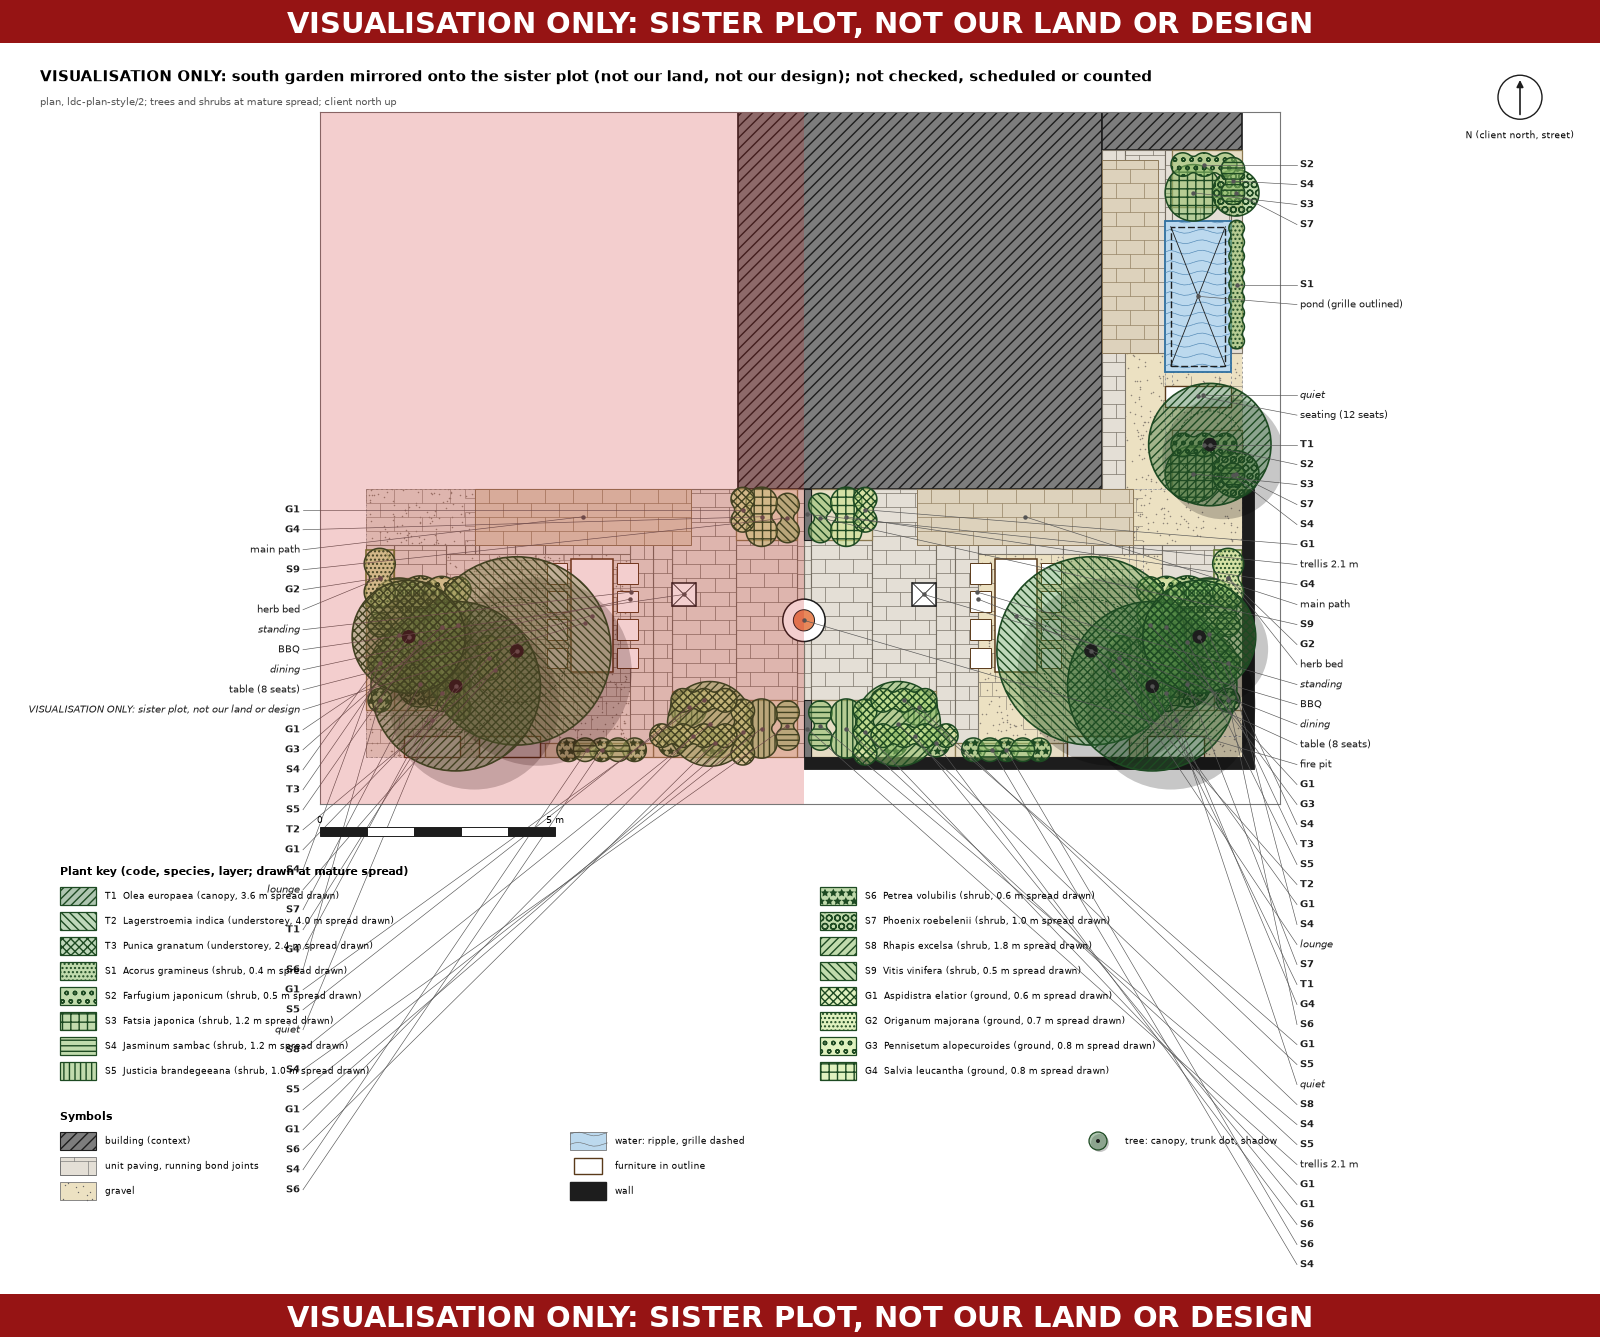
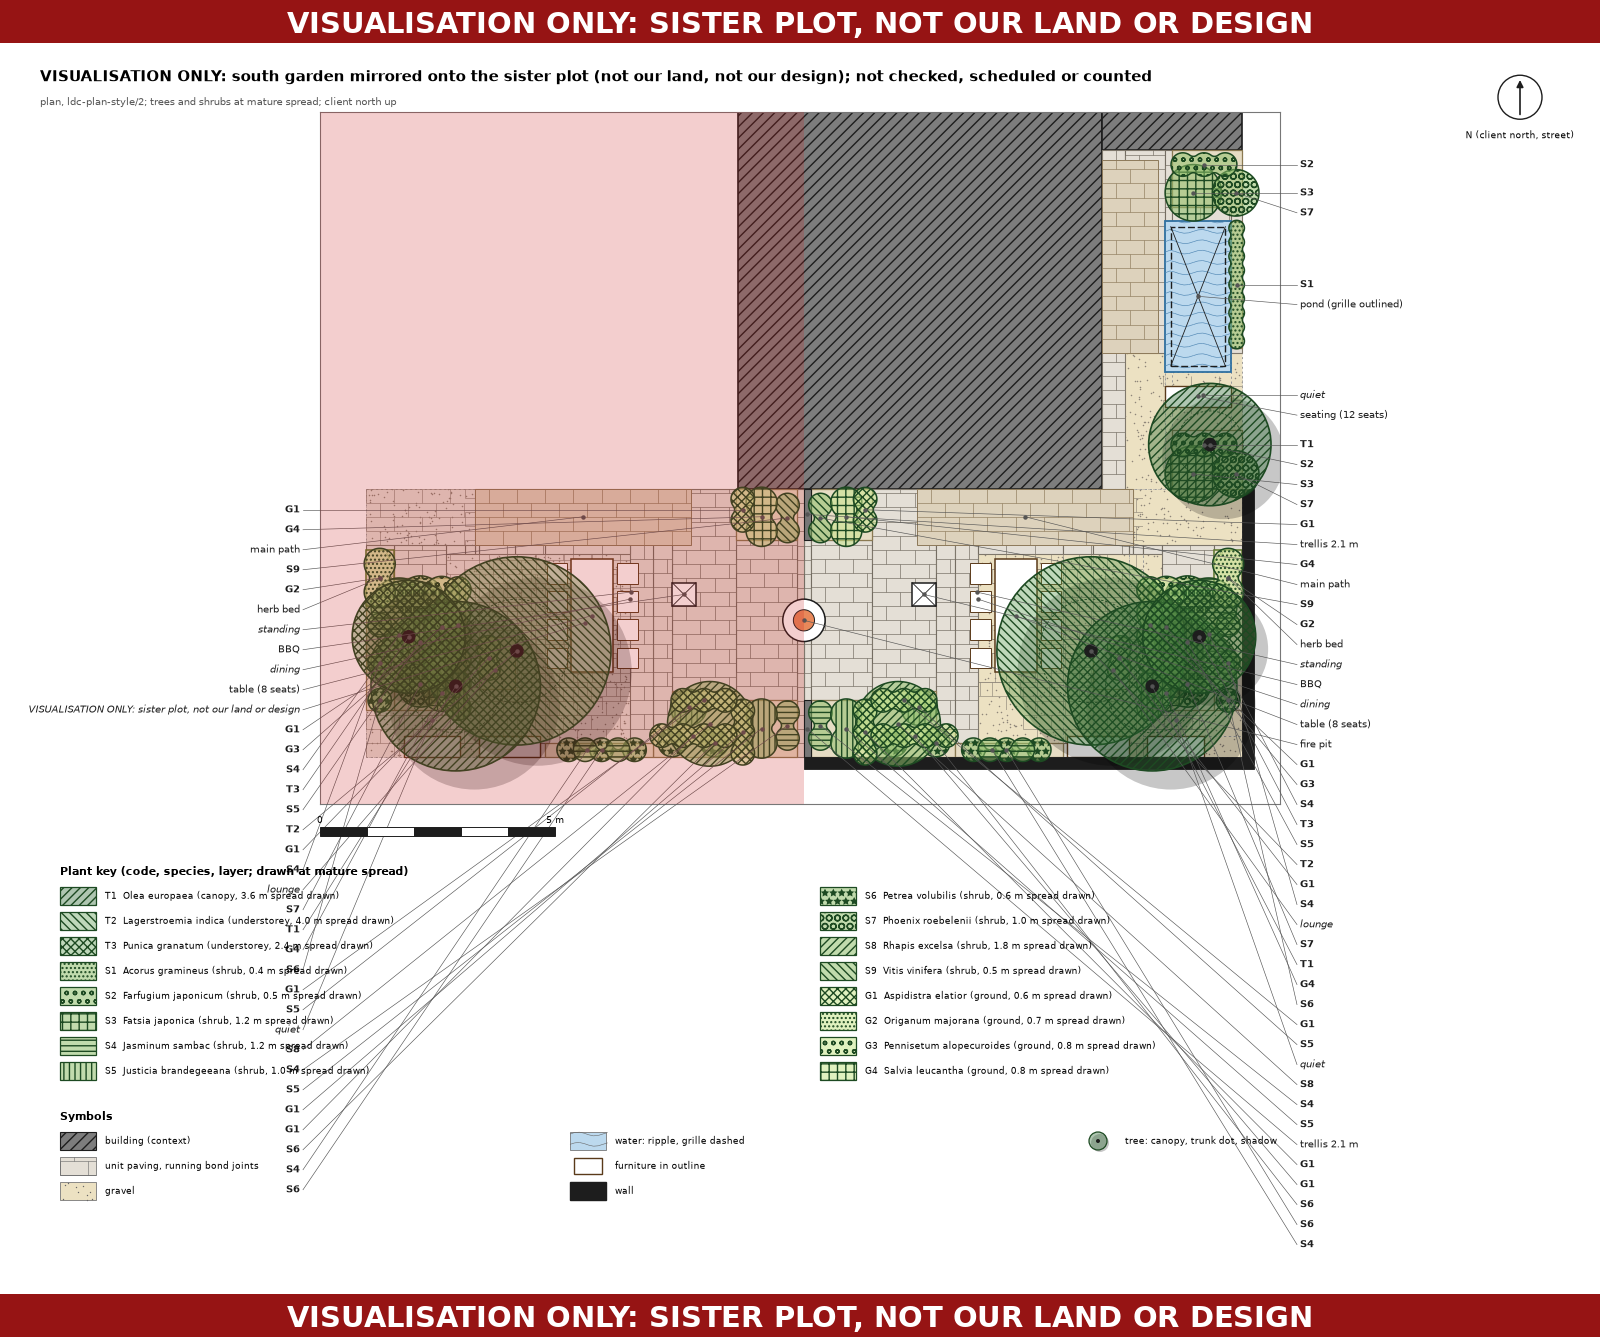
garden: align pruned-tree schema with the build lane, drop unsupported east-yard climbers, regenerate outputs

diff --git a/src/archpipe/landscape/concept/final_report.py b/src/archpipe/landscape/concept/final_report.py
@@ -95,8 +95,9 @@ def main():
           "## Climbers, layers and drifts", "",
           "Climbers on every screen and wall face (a climber within 0.9 m of the face; the house facade stays clear for the fire items):", ""]
     L += _tbl(["face", "climbers"], [[k, ", ".join(v) or "NONE"] for k, v in d["climber_faces"].items()])
-    L += ["", "Grape (Vitis vinifera, deciduous) stands on the north screen stub: it moved from the pergola to the screen as a climber (the client keeps the fruit); NCSU rates it high flammability, and it stays outside the 1.25 m side clearance of the pit. "
-          "Sambac jasmine, Petrea and Jasminum grandiflorum cover the south stub, the rear wall and the east fence. English ivy is still **not used** (heat tolerance GAP in LDL); creeping fig, star jasmine and bougainvillea climber panels were not yet graded on this branch, so every climber is a labelled stand-in or a genus mass.", "",
+    L += ["", "**East yard: no climber.** Its south boundary is not a declared wall in the layout (the site fragment has `fence-east` from x 22.6 only), so a climber there would be drawn as a free mound (LDB warns) and is not claimed; the yard has a tree, shrubs, perennials and groundcover. Declare the fence, then add climbers (open item).", "",
+          "Grape (Vitis vinifera, deciduous) stands on the north screen stub: it moved from the pergola to the screen as a climber (the client keeps the fruit); NCSU rates it high flammability, and it stays outside the 1.25 m side clearance of the pit. "
+          "Sambac jasmine and Petrea cover the south stub, the rear wall and the south garden's east fence (Jasminum grandiflorum is not in the layout). English ivy is still **not used** (heat tolerance GAP in LDL); creeping fig, star jasmine and bougainvillea climber panels were not yet graded on this branch, so every climber is a labelled stand-in or a genus mass.", "",
           "### Layer table per garden room (plants counted from the layout; classification by LDL layer and height)", ""]
     L += _tbl(["room", "canopy", "understorey", "shrub", "perennial", "groundcover", "climber", "missing"],
               [[r] + [f"{v[k]['plants']} ({len(v[k]['species'])} sp)" for k in ("canopy", "understorey", "shrub", "perennial", "groundcover", "climber")] + [", ".join(v["missing"]) or "none"] for r, v in d["layers"].items()])

diff --git a/src/archpipe/landscape/concept/final_trees.py b/src/archpipe/landscape/concept/final_trees.py
@@ -124,11 +124,11 @@ def layer_table(L):
 
 
 def climber_faces(L, reach=0.9):
-    """Every screen and blank wall face of the gardens and whether a climber stands within `reach` of it. Faces: the two screen stubs (garden side), the south (rear) wall, the east fence, and the court/yard fences; the house facade is NOT clad (client brief: facade clear of planting for the fire items)."""
+    """Every screen and blank wall face of the gardens and whether a climber stands within `reach` of it. Faces: the two screen stubs (garden side), the south (rear) wall, the east fence, and the court/yard fences; the house facade is NOT clad (client brief: facade clear of planting for the fire items). The east yard's south boundary is not a declared wall in the layout (site fragment has fence-east from x 22.6 only; the yard fence geometry is unconfirmed), so no climber is claimed there."""
     from shapely.geometry import Point, box
     faces = {"screen N stub": box(S.SX0, S.SY0 + 0.15, S.SX0 + F.OPEN_A[0], S.SY0 + 0.2), "screen S stub": box(S.SX0 + F.OPEN_A[1], S.SY0 + 0.15, S.SX0 + A, S.SY0 + 0.2),
              "south garden rear wall": box(S.SX0 + A - 0.02, S.SY0 + 1.45, S.SX0 + A, S.SY0 + B), "south garden east fence": box(S.SX0 + 1.3, S.SY0 + B - 0.02, S.SX0 + A, S.SY0 + B),
-             "east yard fence": box(F.TC.EX0 + 0.2, F.TC.EY0 + F.TC.EW - 0.02, F.TC.EX0 + F.TC.EL, F.TC.EY0 + F.TC.EW), "north court street fence": box(F.TC.NX1 - F.TC.NH, F.TC.NY0 + 0.3, F.TC.NX1 - F.TC.NH + 0.02, F.TC.NY0 + F.TC.NW)}
+             "north court street fence": box(F.TC.NX1 - F.TC.NH, F.TC.NY0 + 0.3, F.TC.NX1 - F.TC.NH + 0.02, F.TC.NY0 + F.TC.NW)}
     out = {}
     for k, face in faces.items():
         near = sorted({p["species"] for g in L["planting_groups"] for p in g["plants"] if layer_of(p["species"], p.get("role") or g.get("role", "")) == "climber" and Point(*p["at"]).distance(face) <= reach})

diff --git a/src/archpipe/landscape/concept/final.py b/src/archpipe/landscape/concept/final.py
@@ -44,7 +44,7 @@ def shade_tree(f, tid, slug, at, lean=(0.0, 0.0), spread=None):
     pr = TREE_PRUNING[slug]
     tree(f, tid, slug, at)
     t = f["trees"][-1]
-    t.update(mature_spread_m=spread or pr["spread_m"], crown_center=[round(t["center"][0] + lean[0], 3), round(t["center"][1] + lean[1], 3)], crown_lean_m=round(math.hypot(*lean), 2), mature_height_m=pr["height_m"], pruned=True, crown_underside_m=pr["underside_m"], pruning=pr["regime"], pruning_source=pr["source"], pruning_source_status=pr["source_status"],
+    t.update(mature_spread_m=spread or pr["spread_m"], crown_center=[round(t["center"][0] + lean[0], 3), round(t["center"][1] + lean[1], 3)], crown_lean_m=round(math.hypot(*lean), 2), mature_height_m=pr["height_m"], pruned={"spread_m": spread or pr["spread_m"], "height_m": pr["height_m"], "clear_stem_m": pr["underside_m"]}, crown_underside_m=pr["underside_m"], pruning=pr["regime"], pruning_source=pr["source"], pruning_source_status=pr["source_status"],
              species_mature_spread_m=[POOL[slug].s_min, POOL[slug].s_max], species_mature_height_m=POOL[slug].h_max)
     return t
 
@@ -234,7 +234,6 @@ def east_kit():
                       dict(id="far", rect=ER(0, 1.5, 1.2, EW), role="mass", pal="yard_mass", back="hi"),
                       dict(id="edge", rect=ER(1.5, 2.75, 4.2, EW), role="strip", pal="pond_edge", back="hi")],
                 bench=ER(5.0, 1.35, 5.45, 2.75), quiet=ER(4.8, 1.3, 5.6, EW), pergola=None,
-                climbers=[dict(bed="far", at=[(EX0 + u, EY0 + EW - 0.2) for u in (0.4, 0.9)]), dict(bed="divider", at=[(EX0 + 6.9, EY0 + EW - 0.2)])],
                 paths=[ER(0.2, 0, 4.3, 1.2)], path_class="service", gravel=ER(4.3, 0.5, EL, EW), focal="the pond is the focal point of the quiet room, bench at its end")
 
 

diff --git a/tests/landscape/concept/test_final.py b/tests/landscape/concept/test_final.py
@@ -71,7 +71,7 @@ class Design(unittest.TestCase):
         from archpipe.landscape.concept import final_trees as FT
         lt = FT.layer_table(L0)
         self.assertEqual(lt["south garden"]["missing"], [])
-        self.assertEqual(lt["east yard"]["missing"], [])
+        self.assertEqual(lt["east yard"]["missing"], ["climber"])         # its south boundary is not a declared wall: no climber claimed
         self.assertEqual(lt["north court"]["missing"], ["canopy"])         # no tree fits the 3.7 m court (NHBC, pond, 1.3 h sun): stated in the report
         self.assertTrue(all(FT.climber_faces(L0).values()), FT.climber_faces(L0))
 

diff --git a/knowledge/landscape/concept/final/REPORT.md b/knowledge/landscape/concept/final/REPORT.md
@@ -138,17 +138,18 @@ Climbers on every screen and wall face (a climber within 0.9 m of the face; the 
 | screen S stub | jasminum_sambac |
 | south garden rear wall | jasminum_sambac, petrea_volubilis |
 | south garden east fence | jasminum_sambac, petrea_volubilis |
-| east yard fence | jasminum_sambac |
 | north court street fence | jasminum_sambac |
 
-Grape (Vitis vinifera, deciduous) stands on the north screen stub: it moved from the pergola to the screen as a climber (the client keeps the fruit); NCSU rates it high flammability, and it stays outside the 1.25 m side clearance of the pit. Sambac jasmine, Petrea and Jasminum grandiflorum cover the south stub, the rear wall and the east fence. English ivy is still **not used** (heat tolerance GAP in LDL); creeping fig, star jasmine and bougainvillea climber panels were not yet graded on this branch, so every climber is a labelled stand-in or a genus mass.
+**East yard: no climber.** Its south boundary is not a declared wall in the layout (the site fragment has `fence-east` from x 22.6 only), so a climber there would be drawn as a free mound (LDB warns) and is not claimed; the yard has a tree, shrubs, perennials and groundcover. Declare the fence, then add climbers (open item).
+
+Grape (Vitis vinifera, deciduous) stands on the north screen stub: it moved from the pergola to the screen as a climber (the client keeps the fruit); NCSU rates it high flammability, and it stays outside the 1.25 m side clearance of the pit. Sambac jasmine and Petrea cover the south stub, the rear wall and the south garden's east fence (Jasminum grandiflorum is not in the layout). English ivy is still **not used** (heat tolerance GAP in LDL); creeping fig, star jasmine and bougainvillea climber panels were not yet graded on this branch, so every climber is a labelled stand-in or a genus mass.
 
 ### Layer table per garden room (plants counted from the layout; classification by LDL layer and height)
 
 | room | canopy | understorey | shrub | perennial | groundcover | climber | missing |
 |---|---|---|---|---|---|---|---|
 | south garden | 2 (2 sp) | 5 (4 sp) | 8 (2 sp) | 6 (2 sp) | 20 (2 sp) | 14 (3 sp) | none |
-| east yard | 1 (1 sp) | 2 (1 sp) | 2 (1 sp) | 6 (1 sp) | 9 (1 sp) | 3 (1 sp) | none |
+| east yard | 1 (1 sp) | 2 (1 sp) | 2 (1 sp) | 6 (1 sp) | 9 (1 sp) | 0 (0 sp) | climber |
 | north court | 0 (0 sp) | 1 (1 sp) | 1 (1 sp) | 2 (1 sp) | 14 (2 sp) | 3 (1 sp) | canopy |
 
 North court has no canopy tree for the reasons above. **Precedent comparison (LDP frozen ranges, south garden):** layer shares are a GAP in LDP (fewer than 6 usable gardens), so there is no layer range to compare against; hard share and trees per 100 m2 have ranges (below). **Advisory pattern rules (qualitative, no score):** AD-COMP-TREE-CANOPY (a shade tree as the roof of a gathering place with a seat beneath: crape over the table, olive over the quiet bench); AD-COMP-LAYERING (foreground, middle, background in layers: the beds above); AD-APL-246 Climbing Plants (climbers on sunny walls and trellises: rear wall, east fence, screen stubs); AD-APL-170 Fruit Trees (a group, not a single tree: only a pomegranate and a grape, a thin answer); AD-EXT-OVERLOOK (canopy does the work a hedge cannot against the apartment above: summer figures above); AD-EXT-SHADE-PLACEMENT (deciduous trees to the east of the use area: the crape stands east of the table); AD-EXT-POND-SITING (no trees over ponds: the east olive's crown reaches the pond end, evergreen with small leaf fall; flagged); AD-EXT-TREE-BARRIER (no root barrier is relied on, only distance); AD-LECH-SHADE (trees chosen by compass side: the sun-path result above).
@@ -183,7 +184,7 @@ North court: lush shade foliage (Rhapis, Aspidistra; Acorus on the edges). East 
 | polyline paths not built | all paths are rectangles (LDB builds rects only) | LDB build: 0 warnings |
 | chairs clip at pergola corner posts | no pergola posts remain | LDB `clip` check: 0 fails, closed and open pit |
 
-LDB build of this layout (age 3): {'footprint:pass': 66, 'id:pass': 175, 'plant-footprint:info': 8, 'plant-footprint:pass': 86, 'standin:pass': 99, 'support:pass': 173} (closed pit); warnings [].
+LDB build of this layout (age 3): {'climber-coverage:pass': 5, 'footprint:pass': 62, 'id:pass': 180, 'pit-half:pass': 2, 'plant-footprint:info': 7, 'plant-footprint:pass': 66, 'pond-section:pass': 18, 'standin:pass': 96, 'support:pass': 178} (closed pit); warnings [].
 
 ## Programme: achieved versus required
 
@@ -305,7 +306,7 @@ Precedent ranges (LDP frozen): south hard share **0.849 before -> 0.756 after** 
 
 ## Critic findings (LDC, uncalibrated: not a gate)
 
-Counts {'landscape-architect': {'pass': 14, 'fail': 3, 'warn': 1, 'not_evaluated': 0}, 'horticulturist': {'pass': 21, 'fail': 3, 'warn': 3, 'not_evaluated': 3}, 'user': {'pass': 17, 'fail': 2, 'warn': 0, 'not_evaluated': 0}, 'climate': {'pass': 6, 'fail': 1, 'warn': 0, 'not_evaluated': 2}}; trees carry their habit, so the critics use the leafed density in summer windows and the bare density in the winter window.
+Counts {'landscape-architect': {'pass': 14, 'fail': 3, 'warn': 1, 'not_evaluated': 0}, 'horticulturist': {'pass': 23, 'fail': 2, 'warn': 2, 'not_evaluated': 3}, 'user': {'pass': 17, 'fail': 2, 'warn': 0, 'not_evaluated': 0}, 'climate': {'pass': 6, 'fail': 1, 'warn': 0, 'not_evaluated': 2}}; trees carry their habit, so the critics use the leafed density in summer windows and the bare density in the winter window.
 
 - landscape-architect A-ENCLOSURE (fail, major): room 'n-quiet': 29% of its perimeter enclosed by walls/buildings/screens/planting >= 1.8 m (required >= 50%)
 - landscape-architect A-ENCLOSURE (fail, major): room 'e-quiet': 0% of its perimeter enclosed by walls/buildings/screens/planting >= 1.8 m (required >= 50%)
@@ -315,8 +316,6 @@ Counts {'landscape-architect': {'pass': 14, 'fail': 3, 'warn': 1, 'not_evaluated
 - horticulturist H-SIZE-VS-SPACE (fail, major): olea_europaea: mature spread 3.6 m in a space 1.4 m across (limit 0.8 x = 1.1 m)
 - horticulturist H-BED-CROWDING (warn, minor): bed s-bed-wall-b: mature crowns 3.0 m2 on 1.1 m2 of bed (limit 1.5 x)
 - horticulturist H-BED-CROWDING (warn, minor): bed n-screen: mature crowns 4.7 m2 on 2.7 m2 of bed (limit 1.5 x)
-- horticulturist H-BED-CROWDING (warn, minor): bed e-far: mature crowns 2.9 m2 on 1.8 m2 of bed (limit 1.5 x)
-- horticulturist H-DRIFTS (fail, major): 59% of 94 shrub/ground plants sit in drifts of >= 3 (required 60%); median drift 3; lone single-plant species: 0
 - user U-GATHER-GROUPS (fail, major): gathering 10-20: dining seats 8 (>= 4), lounge seats 2 (>= 3): a dining group and a lounge group
 - user U-FIRE (fail, major): fire pit: 3 seats 1.5-4.0 m from the fire (required >= 4; 1.5 m is LS-FIRE-SEAT); reachable: True
 - climate C-POND-SUN (fail, major): pond cell gets 1.75 h direct sun on 21 Jun (required >= 2.0 h, policy: deep shade drops the planting and the water goes green); LS-POND-SHADE covers the opposite excess
@@ -327,8 +326,6 @@ Reading them: C-PRIVACY (6 of 15 seats) is the screen opening again (the critic 
 
 | zone | bed | species | count | layer | verdict | status | conditions |
 |---|---|---|---|---|---|---|---|
-| east yard | e-divider | Jasminum sambac (L.) Aiton | 1 | climber | viable_with_conditions | STAND-IN (generic mass, labelled): not drawable yet | frost: hardy only to 1 C; typical-year minimum is 5.1 C, floor policy 0.0 C; heat: moderate tolerance; plant in afternoo |
-| east yard | e-far | Jasminum sambac (L.) Aiton | 2 | climber | viable_with_conditions | STAND-IN (generic mass, labelled): not drawable yet | frost: hardy only to 1 C; typical-year minimum is 5.1 C, floor policy 0.0 C; heat: moderate tolerance; plant in afternoo |
 | east yard | e-edge | Acorus gramineus Aiton | 9 | ground | viable_with_conditions | STAND-IN (generic mass, labelled): not drawable yet | heat: moderate tolerance; plant in afternoon shade or verify locally |
 | east yard | e-divider | Farfugium japonicum (L.) Kitam. | 3 | shrub/perennial | viable_with_conditions | STAND-IN (generic mass, labelled): not drawable yet | heat: moderate tolerance; plant in afternoon shade or verify locally; alkaline-soil tolerance is a GAP (site soil unmeas |
 | east yard | e-far | Farfugium japonicum (L.) Kitam. | 3 | shrub/perennial | viable_with_conditions | STAND-IN (generic mass, labelled): not drawable yet | heat: moderate tolerance; plant in afternoon shade or verify locally; alkaline-soil tolerance is a GAP (site soil unmeas |
@@ -374,7 +371,7 @@ Reading them: C-PRIVACY (6 of 15 seats) is the screen opening again (the critic 
 
 Drawable on this machine means a graded A/B glTF file is present; the Fab/Megascans species graded by LDL are not present here as files ("graded asset file missing on this machine"), so only the species counted below draw as plants. Everything else is a labelled generic stand-in.
 
-Plants drawable versus stand-in, before -> after: drawable 8 -> 9, stand-in 57 -> 90; species drawable 4 of 13 -> 5 of 17.
+Plants drawable versus stand-in, before -> after: drawable 8 -> 9, stand-in 57 -> 87; species drawable 4 of 13 -> 5 of 17.
 The olives are stand-ins (grade C asset); the crape myrtle draws when its glTF is present.
 
 ## Images (looked at)
